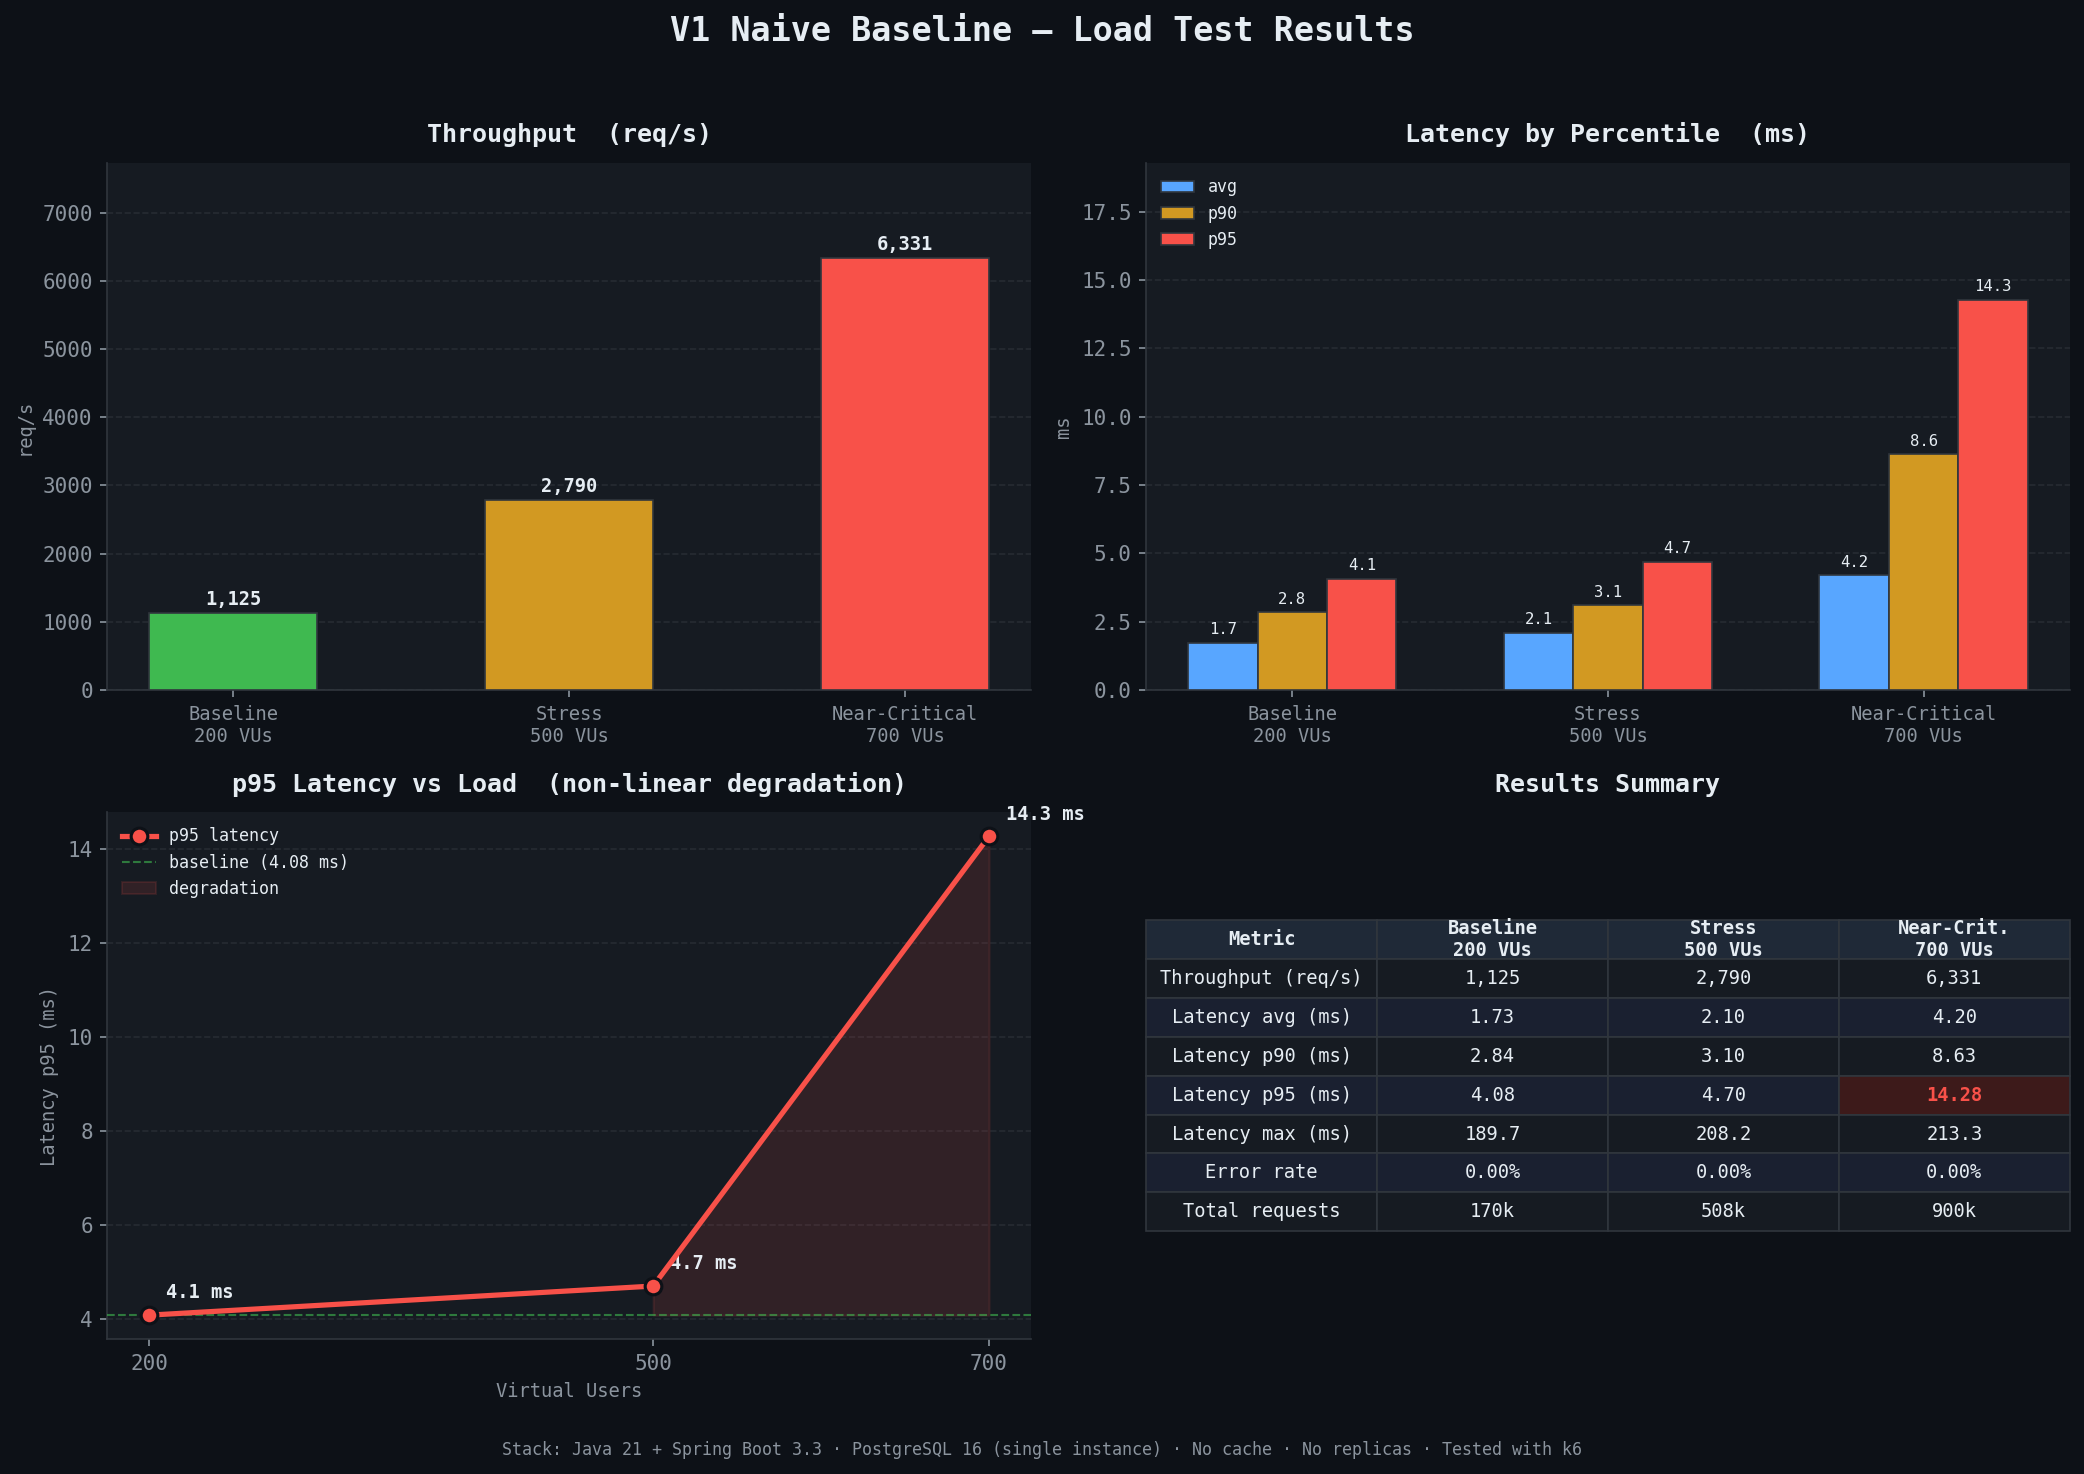
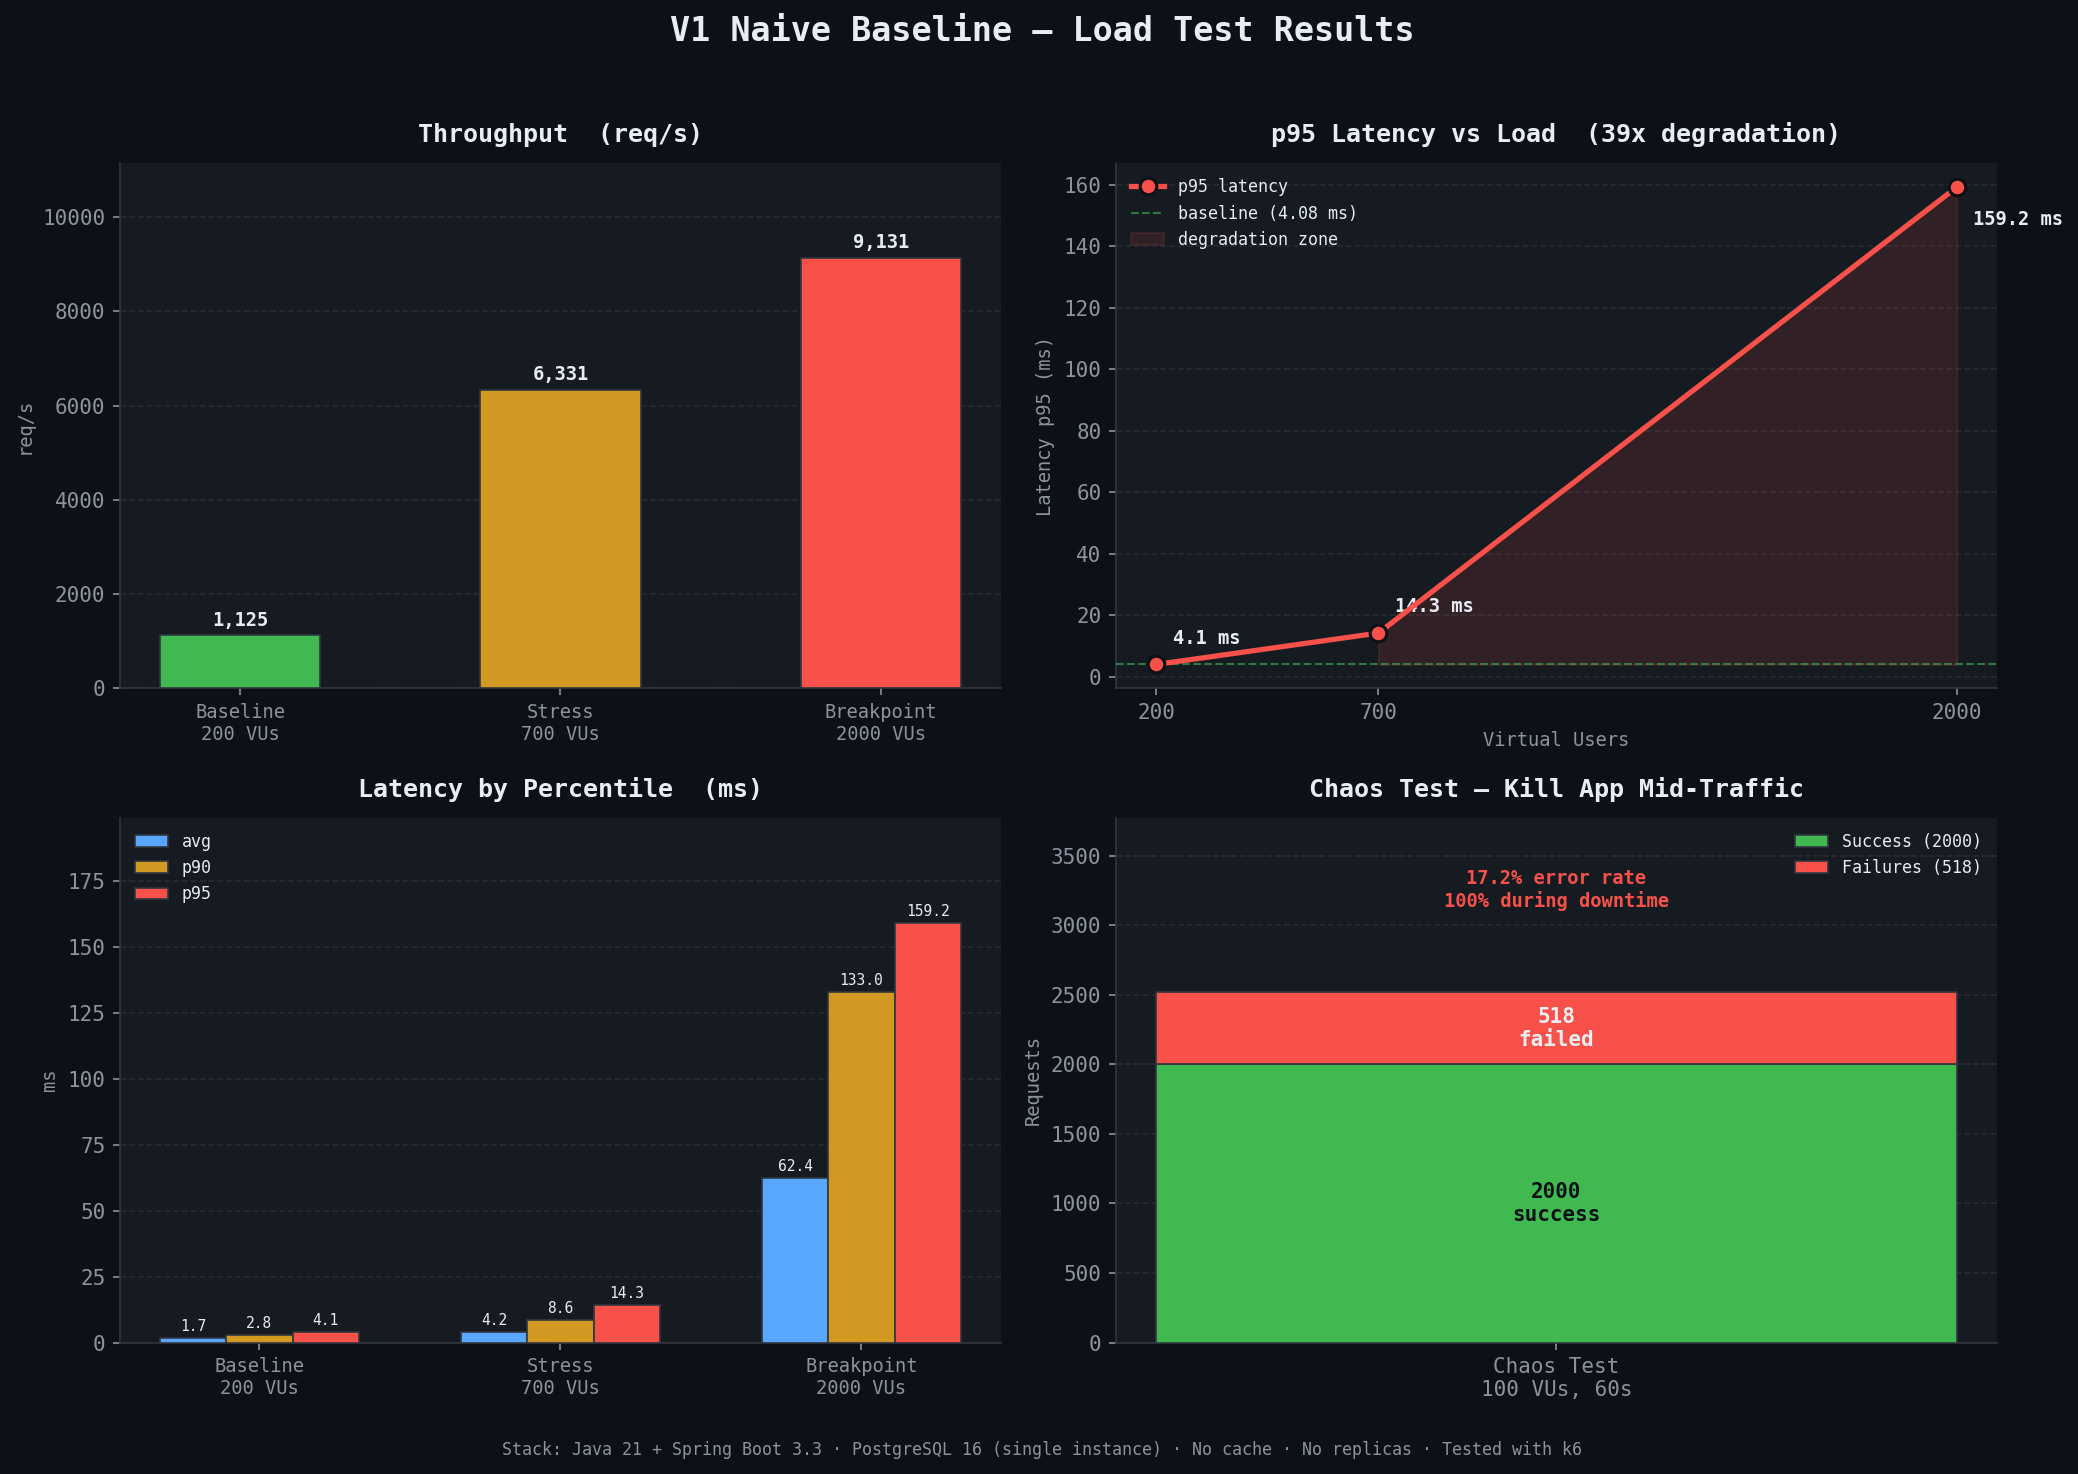
style(v1): update graphics

diff --git a/docs/generate_charts.py b/docs/generate_charts.py
@@ -6,21 +6,23 @@ Output: docs/v1-charts.png
 import matplotlib
 matplotlib.use("Agg")
 import matplotlib.pyplot as plt
-import matplotlib.patches as mpatches
 import numpy as np
 
 # ---------------------------------------------------------------------------
-# Data — extracted directly from results.json and stress-results.json
+# Data — all 4 test scenarios from v1.md
 # ---------------------------------------------------------------------------
 
-scenarios = ["Baseline\n200 VUs", "Stress\n500 VUs", "Near-Critical\n700 VUs"]
-vus       = [200, 500, 700]
+scenarios = ["Baseline\n200 VUs", "Stress\n700 VUs", "Breakpoint\n2000 VUs"]
+vus       = [200, 700, 2000]
 
-throughput = [1125.2, 2790.0, 6331.4]   # req/s
-lat_avg    = [1.73,   2.10,   4.20]     # ms
-lat_p90    = [2.84,   3.10,   8.63]     # ms
-lat_p95    = [4.08,   4.70,  14.28]     # ms
-lat_max    = [189.69, 208.20, 213.30]   # ms
+throughput = [1125.0, 6331.0, 9131.0]
+lat_avg    = [1.73,   4.20,   62.4]
+lat_p90    = [2.84,   8.63,   133.0]
+lat_p95    = [4.08,   14.3,   159.2]
+
+chaos_total    = 3018
+chaos_success  = 2000
+chaos_failures = 518
 
 # ---------------------------------------------------------------------------
 # Style
@@ -35,7 +37,6 @@ BLUE      = "#58a6ff"
 GREEN     = "#3fb950"
 YELLOW    = "#d29922"
 RED       = "#f85149"
-ORANGE    = "#e3b341"
 
 plt.rcParams.update({
     "figure.facecolor":  DARK_BG,
@@ -62,18 +63,18 @@ fig.suptitle(
 )
 
 x = np.arange(len(scenarios))
-bar_w = 0.5
 
 # ---------------------------------------------------------------------------
 # Chart 1 — Throughput (bar)
 # ---------------------------------------------------------------------------
 
 ax1 = fig.add_subplot(2, 2, 1)
-bars = ax1.bar(x, throughput, width=bar_w, color=[GREEN, YELLOW, RED],
+colors_tp = [GREEN, YELLOW, RED]
+bars = ax1.bar(x, throughput, width=0.5, color=colors_tp,
                edgecolor=BORDER, linewidth=0.8, zorder=3)
 
 for bar, val in zip(bars, throughput):
-    ax1.text(bar.get_x() + bar.get_width() / 2, bar.get_height() + 60,
+    ax1.text(bar.get_x() + bar.get_width() / 2, bar.get_height() + 120,
              f"{val:,.0f}", ha="center", va="bottom",
              fontsize=9, fontweight="bold", color=TEXT)
 
@@ -86,115 +87,97 @@ ax1.yaxis.grid(True, zorder=0)
 ax1.set_axisbelow(True)
 
 # ---------------------------------------------------------------------------
-# Chart 2 — Latency by percentile (grouped bar)
+# Chart 2 — p95 Latency curve (the key story: non-linear degradation)
 # ---------------------------------------------------------------------------
 
 ax2 = fig.add_subplot(2, 2, 2)
-w = 0.22
-x2 = np.arange(len(scenarios))
 
-b_avg = ax2.bar(x2 - w,   lat_avg, width=w, label="avg", color=BLUE,   edgecolor=BORDER, linewidth=0.8, zorder=3)
-b_p90 = ax2.bar(x2,       lat_p90, width=w, label="p90", color=YELLOW, edgecolor=BORDER, linewidth=0.8, zorder=3)
-b_p95 = ax2.bar(x2 + w,   lat_p95, width=w, label="p95", color=RED,    edgecolor=BORDER, linewidth=0.8, zorder=3)
+ax2.plot(vus, lat_p95, color=RED, linewidth=2.5, marker="o",
+         markersize=8, markerfacecolor=RED, markeredgecolor=DARK_BG,
+         markeredgewidth=1.5, zorder=4, label="p95 latency")
+
+ax2.axhline(lat_p95[0], color=GREEN, linewidth=1, linestyle="--",
+            alpha=0.6, label=f"baseline ({lat_p95[0]} ms)", zorder=3)
+
+for vu, val in zip(vus, lat_p95):
+    offset_y = 10 if val < 100 else -18
+    ax2.annotate(f"{val:.1f} ms",
+                 xy=(vu, val),
+                 xytext=(8, offset_y), textcoords="offset points",
+                 fontsize=9, color=TEXT, fontweight="bold")
+
+ax2.fill_between(vus, lat_p95[0], lat_p95,
+                 where=[v > lat_p95[0] for v in lat_p95],
+                 color=RED, alpha=0.12, label="degradation zone")
+
+ax2.set_title("p95 Latency vs Load  (39x degradation)", fontweight="bold", pad=10)
+ax2.set_xlabel("Virtual Users", color=MUTED, fontsize=9)
+ax2.set_ylabel("Latency p95 (ms)", color=MUTED, fontsize=9)
+ax2.set_xticks(vus)
+ax2.yaxis.grid(True, zorder=0)
+ax2.set_axisbelow(True)
+ax2.legend(fontsize=8, framealpha=0, labelcolor=TEXT)
+
+# ---------------------------------------------------------------------------
+# Chart 3 — Latency by percentile (grouped bar, all 3 load scenarios)
+# ---------------------------------------------------------------------------
+
+ax3 = fig.add_subplot(2, 2, 3)
+w = 0.22
+x3 = np.arange(len(scenarios))
+
+b_avg = ax3.bar(x3 - w, lat_avg, width=w, label="avg", color=BLUE,
+                edgecolor=BORDER, linewidth=0.8, zorder=3)
+b_p90 = ax3.bar(x3,     lat_p90, width=w, label="p90", color=YELLOW,
+                edgecolor=BORDER, linewidth=0.8, zorder=3)
+b_p95 = ax3.bar(x3 + w, lat_p95, width=w, label="p95", color=RED,
+                edgecolor=BORDER, linewidth=0.8, zorder=3)
 
 for bars_group in [b_avg, b_p90, b_p95]:
     for bar in bars_group:
         h = bar.get_height()
-        ax2.text(bar.get_x() + bar.get_width() / 2, h + 0.2,
-                 f"{h:.1f}", ha="center", va="bottom", fontsize=7.5, color=TEXT)
+        ax3.text(bar.get_x() + bar.get_width() / 2, h + 1.5,
+                 f"{h:.1f}", ha="center", va="bottom", fontsize=7, color=TEXT)
 
-ax2.set_title("Latency by Percentile  (ms)", fontweight="bold", pad=10)
-ax2.set_ylabel("ms", color=MUTED, fontsize=9)
-ax2.set_xticks(x2)
-ax2.set_xticklabels(scenarios, fontsize=9)
-ax2.set_ylim(0, max(lat_p95) * 1.35)
-ax2.yaxis.grid(True, zorder=0)
-ax2.set_axisbelow(True)
-ax2.legend(fontsize=8, framealpha=0,
-           labelcolor=TEXT, loc="upper left")
-
-# ---------------------------------------------------------------------------
-# Chart 3 — p95 latency curve (line — the key "non-linear" story)
-# ---------------------------------------------------------------------------
-
-ax3 = fig.add_subplot(2, 2, 3)
-
-ax3.plot(vus, lat_p95, color=RED, linewidth=2.5, marker="o",
-         markersize=8, markerfacecolor=RED, markeredgecolor=DARK_BG,
-         markeredgewidth=1.5, zorder=4, label="p95 latency")
-
-# Reference line: baseline value extended
-ax3.axhline(lat_p95[0], color=GREEN, linewidth=1, linestyle="--",
-            alpha=0.6, label=f"baseline ({lat_p95[0]} ms)", zorder=3)
-
-# Annotate each point
-for vu, val in zip(vus, lat_p95):
-    ax3.annotate(f"{val:.1f} ms",
-                 xy=(vu, val),
-                 xytext=(8, 8), textcoords="offset points",
-                 fontsize=9, color=TEXT, fontweight="bold")
-
-# Shade the degradation zone
-ax3.fill_between(vus, lat_p95[0], lat_p95,
-                 where=[v > lat_p95[0] for v in lat_p95],
-                 color=RED, alpha=0.12, label="degradation")
-
-ax3.set_title("p95 Latency vs Load  (non-linear degradation)", fontweight="bold", pad=10)
-ax3.set_xlabel("Virtual Users", color=MUTED, fontsize=9)
-ax3.set_ylabel("Latency p95 (ms)", color=MUTED, fontsize=9)
-ax3.set_xticks(vus)
+ax3.set_title("Latency by Percentile  (ms)", fontweight="bold", pad=10)
+ax3.set_ylabel("ms", color=MUTED, fontsize=9)
+ax3.set_xticks(x3)
+ax3.set_xticklabels(scenarios, fontsize=9)
+ax3.set_ylim(0, max(lat_p95) * 1.25)
 ax3.yaxis.grid(True, zorder=0)
 ax3.set_axisbelow(True)
-ax3.legend(fontsize=8, framealpha=0, labelcolor=TEXT)
+ax3.legend(fontsize=8, framealpha=0, labelcolor=TEXT, loc="upper left")
 
 # ---------------------------------------------------------------------------
-# Chart 4 — Summary table
+# Chart 4 — Chaos test: success vs failure (stacked bar + annotation)
 # ---------------------------------------------------------------------------
 
 ax4 = fig.add_subplot(2, 2, 4)
-ax4.axis("off")
 
-col_labels = ["Metric", "Baseline\n200 VUs", "Stress\n500 VUs", "Near-Crit.\n700 VUs"]
-rows = [
-    ["Throughput (req/s)", "1,125", "2,790", "6,331"],
-    ["Latency avg (ms)",   "1.73",  "2.10",  "4.20"],
-    ["Latency p90 (ms)",   "2.84",  "3.10",  "8.63"],
-    ["Latency p95 (ms)",   "4.08",  "4.70",  "14.28"],
-    ["Latency max (ms)",   "189.7", "208.2", "213.3"],
-    ["Error rate",         "0.00%", "0.00%", "0.00%"],
-    ["Total requests",     "170k",  "508k",  "900k"],
-]
+bar_s = ax4.bar(["Chaos Test\n100 VUs, 60s"], [chaos_success],
+                color=GREEN, edgecolor=BORDER, linewidth=0.8,
+                label=f"Success ({chaos_success})", zorder=3, width=0.4)
+bar_f = ax4.bar(["Chaos Test\n100 VUs, 60s"], [chaos_failures],
+                bottom=[chaos_success],
+                color=RED, edgecolor=BORDER, linewidth=0.8,
+                label=f"Failures ({chaos_failures})", zorder=3, width=0.4)
 
-table = ax4.table(
-    cellText=rows,
-    colLabels=col_labels,
-    loc="center",
-    cellLoc="center",
-)
-table.auto_set_font_size(False)
-table.set_fontsize(9)
-table.scale(1, 1.55)
+ax4.text(0, chaos_success / 2, f"{chaos_success}\nsuccess",
+         ha="center", va="center", fontsize=10, fontweight="bold", color=DARK_BG)
+ax4.text(0, chaos_success + chaos_failures / 2, f"{chaos_failures}\nfailed",
+         ha="center", va="center", fontsize=10, fontweight="bold", color=TEXT)
 
-for (row, col), cell in table.get_celld().items():
-    cell.set_edgecolor(BORDER)
-    cell.set_linewidth(0.8)
+pct = chaos_failures / chaos_total * 100
+ax4.text(0, chaos_total + 80,
+         f"17.2% error rate\n100% during downtime",
+         ha="center", va="bottom", fontsize=9, color=RED, fontweight="bold")
 
-    if row == 0:
-        cell.set_facecolor("#1f2937")
-        cell.set_text_props(color=TEXT, fontweight="bold")
-    elif row % 2 == 0:
-        cell.set_facecolor("#1a2030")
-        cell.set_text_props(color=TEXT)
-    else:
-        cell.set_facecolor(PANEL_BG)
-        cell.set_text_props(color=TEXT)
-
-    # Highlight the 700 VU p95 cell (row=4, col=3) in red
-    if row == 4 and col == 3:
-        cell.set_facecolor("#3d1a1a")
-        cell.set_text_props(color=RED, fontweight="bold")
-
-ax4.set_title("Results Summary", fontweight="bold", pad=10)
+ax4.set_title("Chaos Test — Kill App Mid-Traffic", fontweight="bold", pad=10)
+ax4.set_ylabel("Requests", color=MUTED, fontsize=9)
+ax4.set_ylim(0, chaos_total * 1.25)
+ax4.yaxis.grid(True, zorder=0)
+ax4.set_axisbelow(True)
+ax4.legend(fontsize=8, framealpha=0, labelcolor=TEXT, loc="upper right")
 
 # ---------------------------------------------------------------------------
 # Footnote
